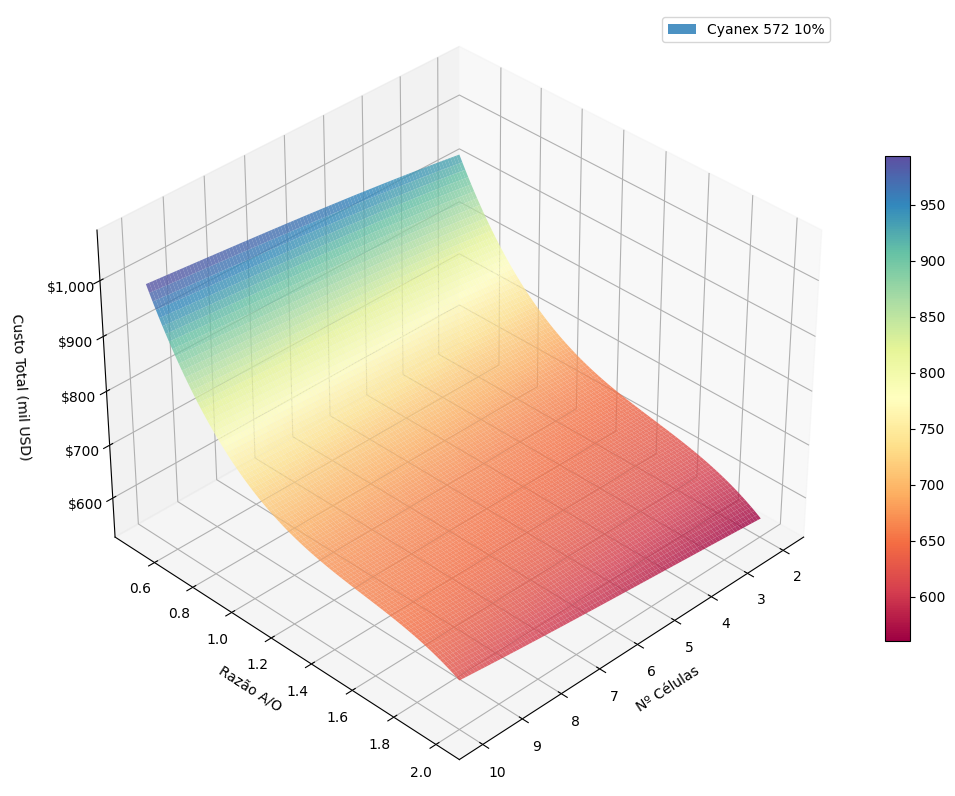
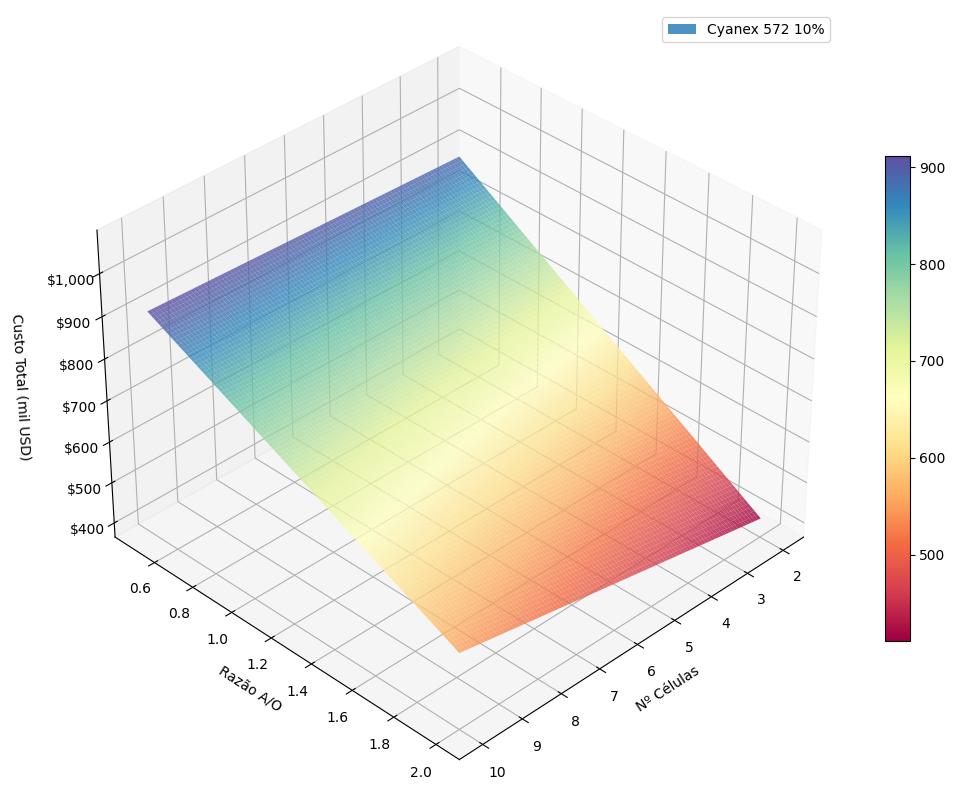
Added sources of some data. Added interaction only as global parameter.

diff --git a/visualization/_regression.py b/visualization/_regression.py
@@ -6,33 +6,35 @@ from sklearn.preprocessing import PolynomialFeatures
 from visualization._excel import save_to_existing_excel
 from helpers._common import create_sub_dataframe
 import statsmodels.api as sm
+from global_constants import MODEL_DEGREE, INTERACTION_ONLY
 
 
-def get_regression(df: pd.DataFrame, degree: int = 3, dependent_variable_substring: str = 'cost',
+def get_regression(df: pd.DataFrame, degree: int = MODEL_DEGREE, dependent_variable_substring: str = 'cost',
                    independent_variables_substrings: list[str] = ['pHi', 'ao ratio', 'cell'],
-                   get_score = False) -> tuple[LinearRegression, float] | LinearRegression:
+                   get_score = False, interaction_only: bool = INTERACTION_ONLY) -> tuple[LinearRegression, float] | LinearRegression:
 
-    regression, _, _, score = regression_aggregate(df, dependent_variable_substring, independent_variables_substrings, degree)
+    regression, _, _, score = regression_aggregate(df, dependent_variable_substring, independent_variables_substrings, degree, interaction_only)
     return (regression, score) if get_score else regression
 
 
-def predict(regression: LinearRegression, features: pd.DataFrame, grid_shape, degree: int = 3) -> LinearRegression:
-    return regression.predict(PolynomialFeatures(degree = degree, include_bias = False).fit_transform(features)).reshape(grid_shape)
+def predict(regression: LinearRegression, features: pd.DataFrame, grid_shape, degree: int = MODEL_DEGREE, interaction_only: bool = INTERACTION_ONLY) -> LinearRegression:
+    return regression.predict(PolynomialFeatures(degree = degree, include_bias = False, interaction_only = interaction_only).fit_transform(features)).reshape(grid_shape)
 
 
-def get_regression_coefficients_table(df: pd.DataFrame, degree: int = 3,
+def get_regression_coefficients_table(df: pd.DataFrame, degree: int = MODEL_DEGREE,
                                       dependent_variable_substring: str = 'cost',
-                                      independent_variables_substrings: list[str] = ['pHi', 'ao ratio', 'cell']) -> pd.DataFrame:
+                                      independent_variables_substrings: list[str] = ['pHi', 'ao ratio', 'cell'],
+                                      interaction_only: bool = INTERACTION_ONLY) -> pd.DataFrame:
 
-    regression, fitted_independent_variables, _, _ = regression_aggregate(df, dependent_variable_substring, independent_variables_substrings, degree)
+    regression, fitted_independent_variables, _, _ = regression_aggregate(df, dependent_variable_substring, independent_variables_substrings, degree, interaction_only)
     coefficients_table = link_coefficients_values_to_feature_names(regression, fitted_independent_variables.get_feature_names_out())
     return coefficients_table
 
 
 def get_complete_regression_coefficients_table(dependent_variable: pd.DataFrame, independent_variables: pd.DataFrame,
-                                               degree: int = 3, print_summary: bool = True) -> tuple[Any, np.ndarray]:
+                                               degree: int = MODEL_DEGREE, interaction_only: bool = INTERACTION_ONLY, print_summary: bool = True) -> tuple[Any, np.ndarray]:
 
-    fitted_independent_variables = PolynomialFeatures(degree = degree).fit(independent_variables)
+    fitted_independent_variables = PolynomialFeatures(degree = degree, interaction_only = interaction_only).fit(independent_variables)
     coefficients_names = fitted_independent_variables.get_feature_names_out()
     transformed_independent_variables = fitted_independent_variables.transform(independent_variables)
     transformed_independent_variables = pd.DataFrame(data = transformed_independent_variables, columns = coefficients_names)
@@ -46,12 +48,13 @@ def get_complete_regression_coefficients_table(dependent_variable: pd.DataFrame,
     return regression, coefficients_names
 
 
-def save_regression_to_excel(df: pd.DataFrame, degree: int = 3,
+def save_regression_to_excel(df: pd.DataFrame, degree: int = MODEL_DEGREE,
                              dependent_variable_substring: str = 'cost',
-                             independent_variables_substrings: list[str] = ['pHi', 'ao ratio', 'cell']) -> None:
+                             independent_variables_substrings: list[str] = ['pHi', 'ao ratio', 'cell'],
+                             interaction_only: bool = INTERACTION_ONLY) -> None:
 
     regression, fitted_independent_variables, transformed_independent_variables, _ = regression_aggregate(df, dependent_variable_substring,
-                                                                                                       independent_variables_substrings, degree)
+                                                                                                          independent_variables_substrings, degree, interaction_only)
     coefficients_names = fitted_independent_variables.get_feature_names_out()
     coefficients_table = link_coefficients_values_to_feature_names(regression, coefficients_names)
     transformed_data = pd.DataFrame(data = transformed_independent_variables, columns = coefficients_names)
@@ -63,12 +66,12 @@ def save_regression_to_excel(df: pd.DataFrame, degree: int = 3,
 
 
 def regression_aggregate(df: pd.DataFrame, dependent_variable_substring: str, independent_variables_substrings: list[str],
-                         degree: int) -> tuple[LinearRegression, PolynomialFeatures, np.ndarray, float]:
+                         degree: int, interaction_only: bool) -> tuple[LinearRegression, PolynomialFeatures, np.ndarray, float]:
 
     independent_variables_df = create_sub_dataframe(df, white_list_substrings = independent_variables_substrings)
     dependent_variable_df = create_sub_dataframe(df, white_list_substrings = [dependent_variable_substring])
 
-    fitted_independent_variables = PolynomialFeatures(degree = degree, include_bias = False).fit(independent_variables_df)
+    fitted_independent_variables = PolynomialFeatures(degree = degree, include_bias = False, interaction_only = interaction_only).fit(independent_variables_df)
     transformed_independent_variables = fitted_independent_variables.transform(independent_variables_df)
 
     regression = LinearRegression().fit(transformed_independent_variables, dependent_variable_df)

diff --git a/static_values/_miscellaneous.py b/static_values/_miscellaneous.py
@@ -1,42 +1,59 @@
 from templates._units import quantity as Q
 
-TIME_REFERENCE = Q(1, 'year')
-PRODUCTION_RATE = Q(10, 'ton/year')
+TIME_REFERENCE = Q(1, 'year') # Assumed
+PRODUCTION_RATE = Q(10, 'ton/year') # Assumed
 TOTAL_PRODUCTION = TIME_REFERENCE * PRODUCTION_RATE
-INTEREST_RATE_ON_CAPITAL = Q(0.1, 'year^-1')
+INTEREST_RATE_ON_CAPITAL = Q(0.1, 'year^-1') # Assumed
 
 # Considering approximations and values not considered.
 # e.g. FOB to CIF, price of water, stage efficiency, extra energy from headlosses, equipment for stripping and so on.
-MARGIN_OF_SAFETY = Q(1.5)
+MARGIN_OF_SAFETY = Q(1.5) # Assumed
 
-# Costs
-ENERGY_COST = Q('145 usd/MWh')
-OPERATOR_COST = Q('20000 usd/year') # Estimated from salaries of CBMM operators on Glassdoor, plus estimation of expenses with feeding, transportation and health care.
+# COSTS ==================================================================
+
+# From Minas Gerais' price with 1 USD = 5 BRL as conversion ratio.
+# https://www.poder360.com.br/energia/rio-de-janeiro-lidera-ranking-de-custo-de-energia-a-industria/#:~:text=Dados%20de%20um%20levantamento%20da,%24%20736%2C78%2FMWh.
+ENERGY_COST = Q('143.2 usd/MWh')
+# Estimated from salaries of CBMM operators on Glassdoor: https://www.glassdoor.com.br/Sal%C3%A1rio/Companhia-Brasileira-de-Metalurgia-e-Minera%C3%A7%C3%A3o-CBMM-Sal%C3%A1rios-E808543.htm
+# plus estimation of expenses with feeding, transportation and health care.
+OPERATOR_COST = Q('20000 usd/year')
+# ========================================================================
 
 # Equilibrium
+# Estimated based on Qi's reports
+# QI, D.,  Hydrometallurgy of Rare Earths, [S.l.], Elsevier, 2018. p. 187–389. DOI: 10.1016/B978-0-12-813920-2.00002-7.
 REE_SX_EQUILIBRIUM_TIME = Q('15 min')
-PHASE_SETTLING_TIME = Q('10 min')
+PHASE_SETTLING_TIME = Q('10 min') # Overestimation of what has been seen on bench scale experiments
+# ========================================================================
+
 
 # Constants
-ACCELERATION_OF_GRAVITY = Q('9.81 m/s^2')
+ACCELERATION_OF_GRAVITY = Q('9.81 m/s^2') # https://en.wikipedia.org/wiki/Gravity_of_Earth
+# ========================================================================
 
 # Distances of Equipment
-DISTANCE_BETWEEN_ORG_TANK_AND_RAFFINATE_CELL = Q('1 m')
-DISTANCE_BETWEEN_AQ_TANK_AND_FEED_CELL = Q('1 m')
-DISTANCE_BETWEEN_STRIPPING_SOLUTION_TANK_AND_STRIPPING_FEED_CELL = Q('1 m')
+DISTANCE_BETWEEN_ORG_TANK_AND_RAFFINATE_CELL = Q('1 m') # Assumed
+DISTANCE_BETWEEN_AQ_TANK_AND_FEED_CELL = Q('1 m') # Assumed
+DISTANCE_BETWEEN_STRIPPING_SOLUTION_TANK_AND_STRIPPING_FEED_CELL = Q('1 m') # Assumed
 DISTANCE_BETWEEN_CELLS = Q('0 m') # Assuming that coupled cells are being used. See: https://www.meab-mx.se/pdf/msu_0_5.pdf
+# ========================================================================
 
-# Assumed values for efficiencies
-STAGE_EFFICIENCY = Q(1)
-AGITATOR_EFFICIENCY = Q(0.7)
-PUMP_EFFICIENCY = Q(0.7)
+# Assumed values for efficiencies, since it hasn't been specified by any seller.
+AGITATOR_EFFICIENCY = Q(0.7) # Assumed
+PUMP_EFFICIENCY = Q(0.7) # Assumed
+# ========================================================================
 
 # Others
-NUMBER_OF_CELLS_IN_STRIPPING_SECTION = Q(3)
-AO_RATIO_IN_STRIPPING_SECTION = Q(1)
+NUMBER_OF_CELLS_IN_STRIPPING_SECTION = Q(3) # Overestimation of what has been seen on bench scale experiments.
+AO_RATIO_IN_STRIPPING_SECTION = Q(1) # Commonly used ratio when no previous optimization has been conducted.
+# Estimated based on Qi's reports
+# # QI, D.,  Hydrometallurgy of Rare Earths, [S.l.], Elsevier, 2018. p. 187–389. DOI: 10.1016/B978-0-12-813920-2.00002-7.
 STRIPPING_SOLUTION_ACID_CONCENTRATION = Q('3 mol/L')
 
-HEAD_LOSS_BETWEEN_CELLS = Q('0.1 m') # Guessed
+HEAD_LOSS_BETWEEN_CELLS = Q('0.1 m') # Assumed
 
-NUMBER_OF_OPERATORS_PER_POSITION = Q(6) # Conservative estimation of the number of operators necessary to cover 1 position at a 24/7 production.
+# Conservative estimation of the number of operators necessary to cover 1 position at a 24/7 production.
+# https://www.callcentrehelper.com/question-what-is-the-minimum-number-of-staff-required-for-a-24-hour-call-centre-2039.htm
+# https://www.quora.com/How-many-employees-do-I-need-to-cover-24-7
+NUMBER_OF_OPERATORS_PER_POSITION = Q(6)
 NUMBER_OF_POSITIONS = Q(1)

diff --git a/static_values/_substances.py b/static_values/_substances.py
@@ -1,7 +1,7 @@
 from templates._units import quantity as Q
 
 HCL = {
-    'PRICE': Q(200, 'usd/ton'),
+    'PRICE': Q(200, 'usd/ton'), # loosely estimated average from https://www.made-in-china.com/products-search/hot-china-products/Hydrochloric_Acid_Price.html
     'DENSITY': Q(1.17, 'kg/L'),
     'MOLAR_MASS': Q(35.453, 'g/mol'),
     'VOLUMETRIC_CONCENTRATION': Q(0.34, 'v/v'),
@@ -9,20 +9,25 @@ HCL = {
 }
 
 WATER = {
-    'DENSITY': Q(997, 'kg/m^3'),
+    'DENSITY': Q(997, 'kg/m^3'), # taken from https://www.sigmaaldrich.com/BR/pt/product/sial/denwat
 }
 
-# Kerosene average properties used
 ISOPARAFFIN = {
+
+    # Kerosene average properties used
+    # https://en.wikipedia.org/wiki/Kerosene#:~:text=Kerosene%20is%20a%20low%2Dviscosity,10%20and%2016%20carbon%20atoms
+
     'NAME': 'Isoparaffin',
-    'PRICE': Q(1.54, 'usd/L'),
+    'PRICE': Q(1.54, 'usd/L'), # https://www.indiamart.com/proddetail/deodorised-kerosene-oil-22631634230.html?pos=1&pla=n
     'PURITY': Q(0.98),
     'DENSITY': Q(0.78, 'kg/L'),
-    'MOLECULAR_WEIGHT': Q(180, 'g/mol'),
+    'MOLECULAR_WEIGHT': Q(180, 'g/mol'), # https://en.wikipedia.org/wiki/Tridecane
     'SOLUBILITY_IN_WATER': Q(0.007, 'g/L'),
 }
 
 D2EHPA = {
+    # pKa, MW, density from
+    # QI, D.,  Hydrometallurgy of Rare Earths, [S.l.], Elsevier, 2018. p. 187–389. DOI: 10.1016/B978-0-12-813920-2.00002-7.
     'NAME': 'D2EHPA',
     'PRICE': Q(15.52, 'usd/L'),
     'DENSITY': Q(0.97, 'kg/L'),
@@ -32,6 +37,8 @@ D2EHPA = {
 }
 
 P507 = {
+    # pKa, MW, density from
+    # QI, D.,  Hydrometallurgy of Rare Earths, [S.l.], Elsevier, 2018. p. 187–389. DOI: 10.1016/B978-0-12-813920-2.00002-7.
     'NAME': 'P507',
     'PRICE': Q(80.75, 'usd/L'),
     'DENSITY': Q(0.95, 'kg/L'),
@@ -41,21 +48,29 @@ P507 = {
 }
 
 CYANEX_572 = {
+
+    # PAVÓN, S., KUTUCU, M., COLL, T., et al. "Comparison of Cyanex 272 and Cyanex 572 on the separation of Neodymium from a Nd/Tb/Dy mixture by pertraction",
+    # Journal of Chemical Technology and Biotechnology, v. 93, 1 set. 2017. DOI: 10.1002/jctb.5458.
+
     # pKa hasn't been disclosed, but it has been guessed in the literature that Cyanex 572 might be a mixture of
-    # cyanex 272 (pKa = 6.37; phosphinic acid) and a phosphonic acid (like P507, pKa = 4.10).
+    # Cyanex 272 (pKa = 6.37; phosphinic acid) and a phosphonic acid (like P507, pKa = 4.10).
     # An average value of 5 has been taken as a first guess.
 
     'NAME': 'Cyanex 572',
     'PRICE': Q(208.5, 'usd/L'),
     'DENSITY': Q(0.933, 'kg/L'),
-    'PURITY': Q(1),
+    'PURITY': Q(1), # Assumed
     'MOLECULAR_WEIGHT': Q(310, 'g/mol'),
-    'PKA': Q(5),
+    'PKA': Q(5), # Estimated
 }
 
-MONAZITE = { # From Araxá's mine
+MONAZITE = {
+    # From Araxá's mine
+    # OLIVEIRA, A. L. B. de, CARNEIRO, M. C., ALCOVER NETO, A., et al.
+    # Digestão de amostras geológicas para a quantificação de elementos das terras raras: Uma abordagem sustentável. [S.l.], CETEM/MCTI, 2020.
+    # Disponível em: http://mineralis.cetem.gov.br/handle/cetem/2370.
     'NAME': 'Monazite',
-    'PRICE': Q(1900, 'usd/ton'),
+    'PRICE': Q(1900, 'usd/ton'), # taken from "monazite price" search on Google
     'REO_CONTENT': Q(0.55),
     'REOS_DISTRIBUTION': {
         'Sc': Q(0.0036),
@@ -77,9 +92,13 @@ MONAZITE = { # From Araxá's mine
     }
 }
 
-XENOTIME = { # From Pitinga's mine
+XENOTIME = {
+    # From Pitinga's mine
+    # RODRIGUES, R. C. "Lixiviação alcalina do concentrado de xenotima",
+    # JORNADA DE INICIAÇÃO CIENTÍFICA. Accepted: 2013-02-01T16:03:07Z, v. 9, 2001.
+    # Disponível em: http://mineralis.cetem.gov.br/handle/cetem/891. Acesso em: 29 maio 2022.
     'NAME': 'Xenotime',
-    'PRICE': Q(1900, 'usd/ton'), # Not really known
+    'PRICE': Q(1900, 'usd/ton'), # Assumed equal to that of Monazite
     'REO_CONTENT': Q(0.616),
     'REOS_DISTRIBUTION': {
         'Sc': Q(0.0007),

diff --git a/static_values/_rees.py b/static_values/_rees.py
@@ -7,8 +7,8 @@ REE_EXTRACTANT_STOICHIOMETRIC_PROPORTION = 6
 PRASEODYMIUM = {
     'NAME': 'Praseodímio',
     'SYMBOL': 'Pr',
-    'ATOMIC_WEIGHT': 140.90765, # g/mol
-    'OXIDE_WEIGHT': 1021.44, # g/mol
+    'ATOMIC_WEIGHT': 140.90765, # g/mol, taken from Wikipedia EN
+    'OXIDE_WEIGHT': 1021.44, # g/mol, taken from Wikipedia EN
     'VALENCY': REE_VALENCY,
     'OXIDE_STOICHIOMETRIC_PROPORTION': 6
 }
@@ -16,8 +16,8 @@ PRASEODYMIUM = {
 NEODYMIUM = {
     'NAME': 'Neodímio',
     'SYMBOL': 'Nd',
-    'ATOMIC_WEIGHT': 144.242, # g/mol
-    'OXIDE_WEIGHT': 336.48, # g/mol
+    'ATOMIC_WEIGHT': 144.242, # g/mol, taken from Wikipedia EN
+    'OXIDE_WEIGHT': 336.48, # g/mol, taken from Wikipedia EN
     'VALENCY': REE_VALENCY,
     'OXIDE_STOICHIOMETRIC_PROPORTION': REE_OXIDE_STOICHIOMETRIC_PROPORTION
 }
@@ -25,8 +25,8 @@ NEODYMIUM = {
 SAMARIUM = {
     'NAME': 'Samário',
     'SYMBOL': 'Sm',
-    'ATOMIC_WEIGHT': 150.36, # g/mol
-    'OXIDE_WEIGHT': 348.72, # g/mol
+    'ATOMIC_WEIGHT': 150.36, # g/mol, taken from Wikipedia EN
+    'OXIDE_WEIGHT': 348.72, # g/mol, taken from Wikipedia EN
     'VALENCY': REE_VALENCY,
     'OXIDE_STOICHIOMETRIC_PROPORTION': REE_OXIDE_STOICHIOMETRIC_PROPORTION
 }
@@ -34,8 +34,8 @@ SAMARIUM = {
 DYSPROSIUM = {
     'NAME': 'Disprósio',
     'SYMBOL': 'Dy',
-    'ATOMIC_WEIGHT': 162.5, # g/mol
-    'OXIDE_WEIGHT': 372.998, # g/mol
+    'ATOMIC_WEIGHT': 162.5, # g/mol, taken from Wikipedia EN
+    'OXIDE_WEIGHT': 372.998, # g/mol, taken from Wikipedia EN
     'VALENCY': REE_VALENCY,
     'OXIDE_STOICHIOMETRIC_PROPORTION': REE_OXIDE_STOICHIOMETRIC_PROPORTION
 }
@@ -43,8 +43,8 @@ DYSPROSIUM = {
 HOLMIUM = {
     'NAME': 'Hólmio',
     'SYMBOL': 'Ho',
-    'ATOMIC_WEIGHT': 164.93032, # g/mol
-    'OXIDE_WEIGHT': 377.858, # g/mol
+    'ATOMIC_WEIGHT': 164.93032, # g/mol, taken from Wikipedia EN
+    'OXIDE_WEIGHT': 377.858, # g/mol, taken from Wikipedia EN
     'VALENCY': REE_VALENCY,
     'OXIDE_STOICHIOMETRIC_PROPORTION': REE_OXIDE_STOICHIOMETRIC_PROPORTION
 }

diff --git a/visualization/_pareto_chart.py b/visualization/_pareto_chart.py
@@ -47,7 +47,7 @@ def get_regression_comprehensive_coefficients_table(standardized_df: pd.DataFram
 
     remove_invariants_from_independent_variables(independent_variables)
 
-    regression, coefficients_names = get_complete_regression_coefficients_table(dependent_variable, independent_variables, degree = 2)
+    regression, coefficients_names = get_complete_regression_coefficients_table(dependent_variable, independent_variables)
 
     coefficients_df = create_coefficients_df_from_regression(regression, coefficients_names)
 

diff --git a/global_constants.py b/global_constants.py
@@ -13,6 +13,7 @@ COMPLETE_RESULTS_TAB = 'Resultados Completos'
 TRANSFORMED_REGRESSION_VALUES_TAB = 'Valores Transformados Regressão'
 REGRESSION_COEFFICIENTS_TAB = 'Coeficientes da Regressão'
 
+
 FONT = {
     'family': 'serif',
     'color':  'darkred',
@@ -20,4 +21,7 @@ FONT = {
     'size': 14,
 }
 
+
 MAX_P_VALUE = 0.05
+MODEL_DEGREE = 2
+INTERACTION_ONLY = True
